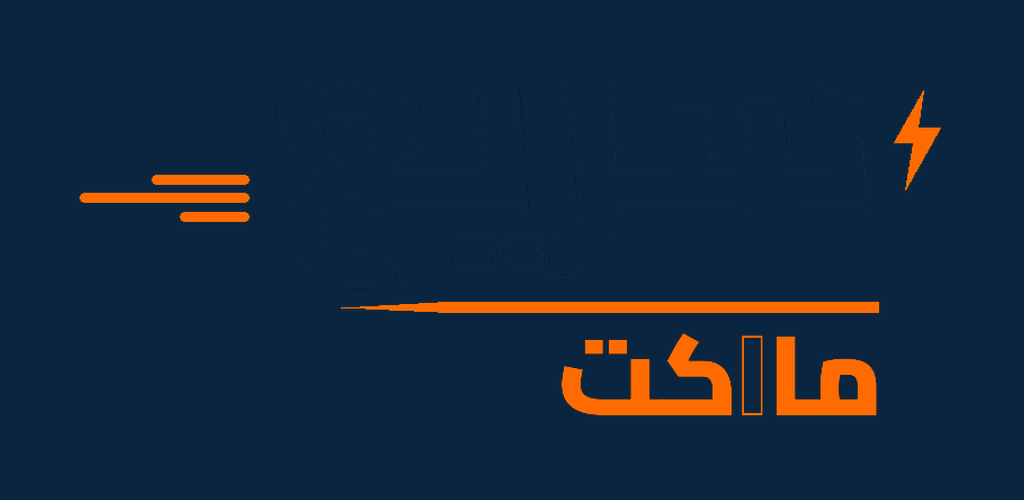
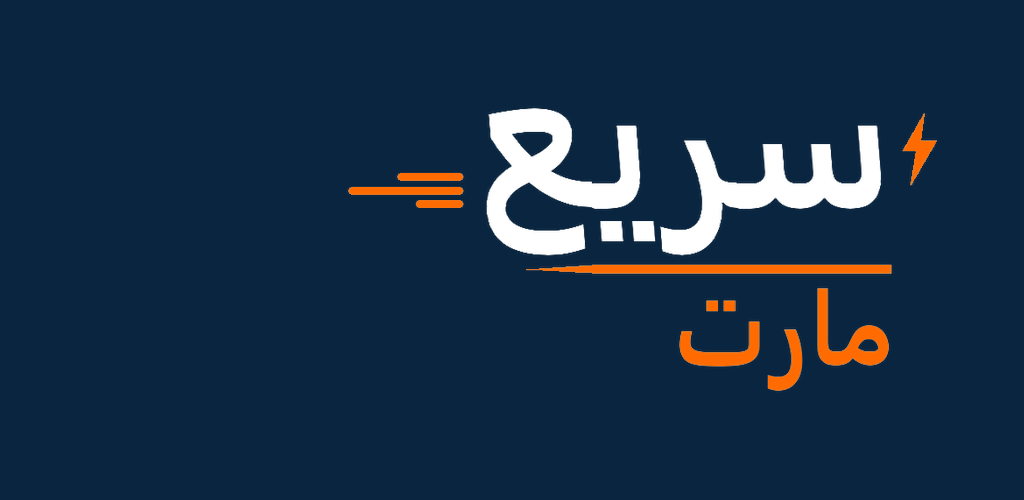
edits

Changed region(s): [[0.3438, 0.18, 0.9375, 0.84], [0.0625, 0.33, 0.25, 0.45]]

diff --git a/lib/features/screens.dart b/lib/features/screens.dart
@@ -205,7 +205,7 @@ class _LoginScreenState extends State<LoginScreen> {
                   ),
                   SizedBox(height: 16),
                   Text(
-                    app.brand.identity['name_ar'] ?? 'سريع ماركت - توصيل',
+                    app.brand.identity['name_ar'] ?? 'سريع مارت - توصيل',
                     textAlign: TextAlign.center,
                     style: TextStyle(
                       fontSize: 28,
@@ -4086,13 +4086,13 @@ class _PrivacyScreenState extends State<PrivacyScreen> {
   bool loading = true;
 
   static const _privacyFallback =
-      'تنطبق سياسة الخصوصية هذه على تطبيق سريع ماركت موصل في اليمن. نجمع بيانات الحساب اللازمة للعمل: الاسم، رقم الجوال، البريد إن وُجد، العنوان والمدينة، الطلبات المسندة، التحصيل النقدي، التحويلات وطلبات السحب.\n\n'
+      'تنطبق سياسة الخصوصية هذه على تطبيق سريع مارت موصل في اليمن. نجمع بيانات الحساب اللازمة للعمل: الاسم، رقم الجوال، البريد إن وُجد، العنوان والمدينة، الطلبات المسندة، التحصيل النقدي، التحويلات وطلبات السحب.\n\n'
       'الصور: يمكنك اختيار صورة رخصة القيادة أو الهوية من المعرض لتحديث ملفك. لا نصل إلى المعرض إلا عند اختيارك ذلك.\n\n'
       'لا نبيع بياناتك لمعلنين. قد تظهر بيانات لازمة لتنفيذ التوصيل داخل المنصة. يمكنك حذف الحساب من: حسابي ثم حذف الحساب.\n\n'
       'الخدمة مخصصة لمن يبلغ 18 عاماً فأكثر لأن التوصيل عمل ميداني. آخر تحديث: 15 أغسطس 2026.';
 
   static const _termsFallback =
-      'باستخدام تطبيق سريع ماركت موصل فإنك توافق على هذه الشروط. الحساب يُنشأ من الإدارة فقط.\n\n'
+      'باستخدام تطبيق سريع مارت موصل فإنك توافق على هذه الشروط. الحساب يُنشأ من الإدارة فقط.\n\n'
       'أنت مسؤول عن التعامل مع الطلبات المسندة، تحديث الحالة بدقة، وتسليم التحصيل النقدي حسب تعليمات الإدارة.\n\n'
       'يُمنع إساءة استخدام بيانات العملاء أو مشاركة تفاصيل الطلب خارج العمل. يحق للإدارة إيقاف الحساب عند المخالفة.\n\n'
       'يمكنك حذف حسابك من داخل التطبيق: حسابي ثم حذف الحساب. آخر تحديث: 15 أغسطس 2026.';

diff --git a/lib/features/akhdimni_screens.dart b/lib/features/akhdimni_screens.dart
@@ -247,6 +247,25 @@ class _AkhOrderDetailScreenState extends State<AkhOrderDetailScreen> {
   bool get isPurchaseRequired => J.flag(order['is_purchase_required']);
   String get activeStatus => J.str(order['active_status']);
 
+  // Legacy lifecycle values (removed old flow) mapped to the new lifecycle
+  // so action buttons never silently disappear.
+  String get effStatus {
+    switch (activeStatus) {
+      case 'in_progress':
+      case 'inprogress':
+        return 'assigned';
+      case 'completed':
+      case 'complete':
+      case 'done':
+        return 'delivered';
+      case 'pending_review':
+      case 'approved':
+        return 'pending';
+      default:
+        return activeStatus;
+    }
+  }
+
   double get itemsTotal {
     var t = 0.0;
     for (final it in items) {
@@ -639,7 +658,7 @@ class _AkhOrderDetailScreenState extends State<AkhOrderDetailScreen> {
   }
 
   Widget statusChip() {
-    final st = activeStatus;
+    final st = effStatus;
     return Container(
       padding: const EdgeInsets.symmetric(horizontal: 12, vertical: 6),
       decoration: BoxDecoration(
@@ -657,7 +676,7 @@ class _AkhOrderDetailScreenState extends State<AkhOrderDetailScreen> {
 
   // زر رئيسي واحد حسب المرحلة — نفس منطق الويب.
   Widget nextStepButton() {
-    if (activeStatus == 'pending' || activeStatus == 'assigned') {
+    if (effStatus == 'pending' || effStatus == 'assigned') {
       return SizedBox(
         width: double.infinity,
         child: FilledButton(
@@ -667,7 +686,7 @@ class _AkhOrderDetailScreenState extends State<AkhOrderDetailScreen> {
         ),
       );
     }
-    if (activeStatus == 'picked_up') {
+    if (effStatus == 'picked_up') {
       return SizedBox(
         width: double.infinity,
         child: FilledButton(
@@ -676,7 +695,7 @@ class _AkhOrderDetailScreenState extends State<AkhOrderDetailScreen> {
         ),
       );
     }
-    if (activeStatus == 'out_for_delivery') {
+    if (effStatus == 'out_for_delivery') {
       return SizedBox(
         width: double.infinity,
         child: FilledButton(
@@ -964,8 +983,8 @@ class _AkhOrderDetailScreenState extends State<AkhOrderDetailScreen> {
                       ),
                       const SizedBox(height: 12),
                       nextStepButton(),
-                      if (activeStatus != 'delivered' &&
-                          activeStatus != 'cancelled')
+                      if (effStatus != 'delivered' &&
+                          effStatus != 'cancelled')
                         Center(
                           child: TextButton(
                             onPressed:

diff --git a/lib/core/firebase_config.dart b/lib/core/firebase_config.dart
@@ -1,13 +1,13 @@
 import 'package:firebase_core/firebase_core.dart';
 
-/// إعدادات Firebase لمشروع saree-market.
+/// إعدادات Firebase لمشروع sreamart.
 ///
 /// القيم المعبأة مشروع-عامة من إعدادات السيرفر:
-/// projectId = saree-market ، messagingSenderId = 615854672127.
+/// projectId = sreamart ، messagingSenderId = 615854672127.
 ///
 /// خطوة واحدة متبقية لتفعيل وصول الإشعارات والتطبيق مغلق:
-/// 1) افتح Firebase Console ← مشروع saree-market ← Add app ← Android.
-/// 2) سجّل package name: com.saree.saree_delivery (بدون google-services.json — الإعداد كودي).
+/// 1) افتح Firebase Console ← مشروع sreamart ← Add app ← Android.
+/// 2) سجّل package name: com.sreamart.sreamart_delivery (بدون google-services.json — الإعداد كودي).
 /// 3) انسخ قيمة appId التي تظهر بشكل 1:615854672127:android:XXXXXXXX
 ///    والصقها في [androidAppId] أدناه ثم أعد بناء التطبيق.
 ///
@@ -24,9 +24,9 @@ class FirebaseConfig {
   static const String androidAppId = '';
 
   static const String messagingSenderId = '615854672127';
-  static const String projectId = 'saree-market';
-  static const String storageBucket = 'saree-market.firebasestorage.app';
-  static const String authDomain = 'saree-market.firebaseapp.com';
+  static const String projectId = 'sreamart';
+  static const String storageBucket = 'sreamart.firebasestorage.app';
+  static const String authDomain = 'sreamart.firebaseapp.com';
 
   /// الـ appId الفعّال على أندرويد: الخاص بالأندرويد إن وُجد.
   static String get effectiveAppId =>

diff --git a/lib/core/brand_config.dart b/lib/core/brand_config.dart
@@ -15,7 +15,7 @@ class BrandConfig {
 
   static const defaults = BrandConfig(
     version: 1,
-    identity: {'name_ar': 'سريع ماركت - توصيل', 'name_en': 'Saree Market - Delivery'},
+    identity: {'name_ar': 'سريع مارت - توصيل', 'name_en': 'Sreamart - Delivery'},
     colors: {
       'primary': '#0A2540',
       'accent': '#FF6B00',
@@ -35,12 +35,12 @@ class BrandConfig {
     final identity = Map<String, String>.from(base.identity);
     final id = json['identity'];
     if (id is Map) id.forEach((k, v) => identity['$k'] = '$v');
-    // توصيل: إجبار لاحقة "- توصيل" حتى لو الـ Backend رجع "سريع ماركت" فقط — مثل فصل البائع
-    if (identity['name_ar'] == 'سريع ماركت') {
-      identity['name_ar'] = 'سريع ماركت - توصيل';
+    // توصيل: إجبار لاحقة "- توصيل" حتى لو الـ Backend رجع "سريع مارت" فقط — مثل فصل البائع
+    if (identity['name_ar'] == 'سريع مارت') {
+      identity['name_ar'] = 'سريع مارت - توصيل';
     }
-    if (identity['name_en'] == 'Saree Market') {
-      identity['name_en'] = 'Saree Market - Delivery';
+    if (identity['name_en'] == 'Sreamart') {
+      identity['name_en'] = 'Sreamart - Delivery';
     }
 
     final colors = Map<String, String>.from(base.colors);

diff --git a/lib/core/push_service.dart b/lib/core/push_service.dart
@@ -45,13 +45,13 @@ Future<void> pushBackgroundHandler(RemoteMessage message) async {
 
 class PushService {
   static const channel = AndroidNotificationChannel(
-    'saree_delivery_orders',
+    'sreamart_delivery_orders',
     'طلبات التوصيل',
     description: 'إشعارات الطلبات المسندة للموصل',
     importance: Importance.max,
   );
 
-  static const _optionsCacheKey = 'saree_delivery_firebase_options';
+  static const _optionsCacheKey = 'sreamart_delivery_firebase_options';
   static const _tokenKey = 'fcm_token';
 
   static final FlutterLocalNotificationsPlugin local =
@@ -378,7 +378,7 @@ class PushService {
         body,
         const NotificationDetails(
           android: AndroidNotificationDetails(
-            'saree_delivery_orders',
+            'sreamart_delivery_orders',
             'طلبات التوصيل',
             channelDescription: 'إشعارات الطلبات المسندة للموصل',
             importance: Importance.max,

diff --git a/lib/app.dart b/lib/app.dart
@@ -158,7 +158,7 @@ class DeliveryShell extends StatelessWidget {
                     crossAxisAlignment: CrossAxisAlignment.start,
                     children: [
                       Text(
-                        app.brand.identity['name_ar'] ?? 'سريع ماركت - توصيل',
+                        app.brand.identity['name_ar'] ?? 'سريع مارت - توصيل',
                         style: const TextStyle(
                           fontSize: 16,
                           fontWeight: FontWeight.w800,
@@ -361,7 +361,7 @@ class DeliveryApp extends StatelessWidget {
       listenable: app,
       builder: (context, _) {
         return MaterialApp.router(
-          title: app.brand.identity['name_ar'] ?? 'سريع ماركت - توصيل',
+          title: app.brand.identity['name_ar'] ?? 'سريع مارت - توصيل',
           debugShowCheckedModeBanner: false,
           locale: const Locale('ar'),
           supportedLocales: const [Locale('ar'), Locale('en')],

diff --git a/lib/widgets/branded_splash.dart b/lib/widgets/branded_splash.dart
@@ -44,7 +44,7 @@ class BrandedSplash extends StatelessWidget {
               ),
               const SizedBox(height: 22),
               Text(
-                'سريع ماركت',
+                'سريع مارت',
                 style: TextStyle(
                   color: AppColors.white,
                   fontSize: 26,

diff --git a/test/api_errors_test.dart b/test/api_errors_test.dart
@@ -1,6 +1,6 @@
 import 'package:dio/dio.dart';
 import 'package:flutter_test/flutter_test.dart';
-import 'package:saree_delivery/core/api_errors.dart';
+import 'package:sreamart_delivery/core/api_errors.dart';
 
 void main() {
   group('development: detailed errors remain visible', () {

diff --git a/android/app/src/main/kotlin/com/sreamart/sreamart_delivery/MainActivity.kt b/android/app/src/main/kotlin/com/sreamart/sreamart_delivery/MainActivity.kt
@@ -1,4 +1,4 @@
-package com.saree.saree_delivery
+package com.sreamart.sreamart_delivery
 
 import io.flutter.embedding.android.FlutterActivity
 
